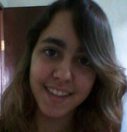
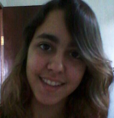
corrigido as posições das fotos

diff --git a/Carlos_Delfino_-_Consultoria_e_Projetos/Sobre_Mim.html b/Carlos_Delfino_-_Consultoria_e_Projetos/Sobre_Mim.html
@@ -123,24 +123,24 @@ new NavBar('widget0', 'Scripts/Widgets/Navbar', 'Scripts/Widgets/SharedResources
             
 
 
-            <div style="height: 173px; width: 286px;  height: 169px; left: 39px; position: absolute; top: 386px; width: 282px; z-index: 1; " class="tinyText">
-              <div style="position: relative; width: 282px; ">
-                <img src="Sobre_Mim_files/shapeimage_2.png" alt="" style="height: 173px; left: 0px; margin-left: -2px; margin-top: -2px; position: absolute; top: 0px; width: 286px; " />
+            <div style="height: 125px; width: 204px;  height: 119px; left: 125px; position: absolute; top: 429px; width: 199px; z-index: 1; " class="tinyText">
+              <div style="position: relative; width: 199px; ">
+                <img src="Sobre_Mim_files/shapeimage_2.png" alt="" style="height: 125px; left: 0px; margin-left: -2px; margin-top: -3px; position: absolute; top: 0px; width: 204px; " />
               </div>
             </div>
             
 
 
-            <div style="height: 132px; width: 127px;  height: 132px; left: 103px; position: absolute; top: 573px; width: 126px; z-index: 1; " class="tinyText stroke_0">
-              <div style="position: relative; width: 126px; ">
-                <img src="Sobre_Mim_files/shapeimage_3.png" alt="" style="height: 132px; left: 0px; margin-left: 0px; position: absolute; top: 0px; width: 127px; " />
+            <div style="height: 118px; width: 114px;  height: 118px; left: 36px; position: absolute; top: 430px; width: 113px; z-index: 1; " class="tinyText stroke_0">
+              <div style="position: relative; width: 113px; ">
+                <img src="Sobre_Mim_files/shapeimage_3.png" alt="" style="height: 118px; left: 0px; margin-left: 0px; margin-top: 1px; position: absolute; top: 0px; width: 114px; " />
               </div>
             </div>
             
 
 
-            <div id="id4" style="height: 29px; left: 38px; position: absolute; top: 351px; width: 393px; z-index: 1; " class="style_SkipStroke_3 shape-with-text">
-              <div class="text-content graphic_shape_layout_style_default_External_393_29" style="padding: 0px; ">
+            <div id="id4" style="height: 29px; left: 38px; position: absolute; top: 376px; width: 280px; z-index: 1; " class="style_SkipStroke_3 shape-with-text">
+              <div class="text-content graphic_shape_layout_style_default_External_280_29" style="padding: 0px; ">
                 <div class="graphic_shape_layout_style_default">
                   <p style="padding-bottom: 0pt; padding-top: 0pt; " class="Title">Meus TEsouros</p>
                 </div>

diff --git a/Carlos_Delfino_-_Consultoria_e_Projetos/Sobre_Mim_files/Sobre_Mim.css b/Carlos_Delfino_-_Consultoria_e_Projetos/Sobre_Mim_files/Sobre_Mim.css
@@ -154,6 +154,9 @@
 .graphic_shape_layout_style_default_External_393_29 {
     position: relative;
 }
+.graphic_shape_layout_style_default_External_280_29 {
+    position: relative;
+}
 .graphic_textbox_layout_style_default_External_291_624 {
     position: relative;
 }
